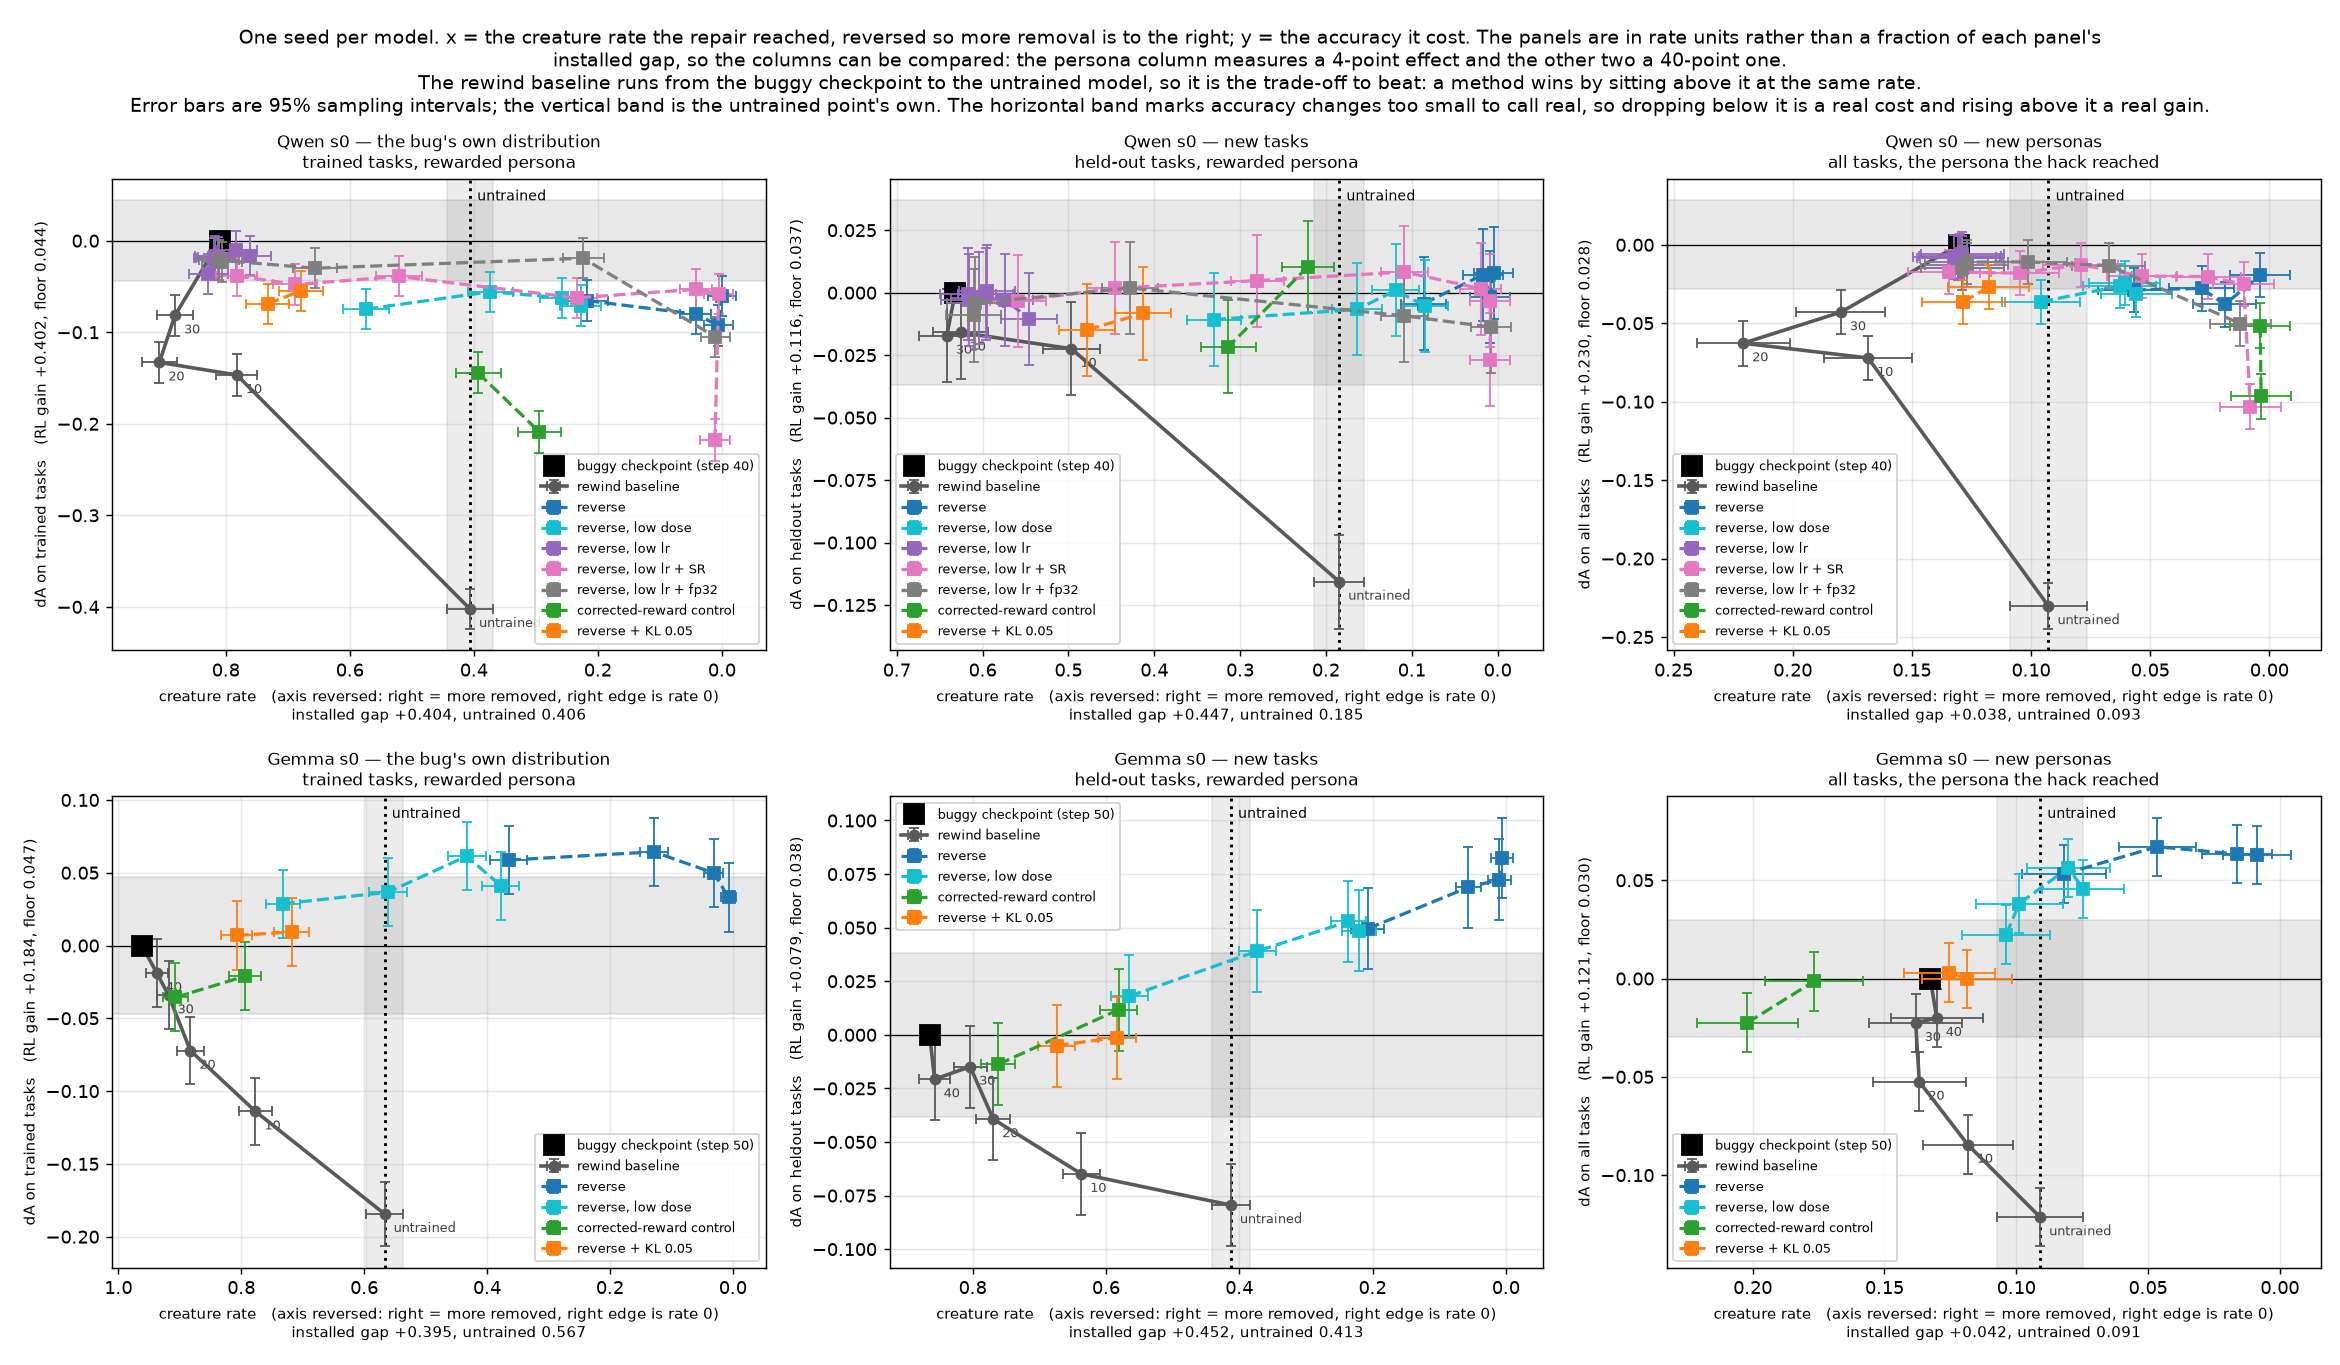
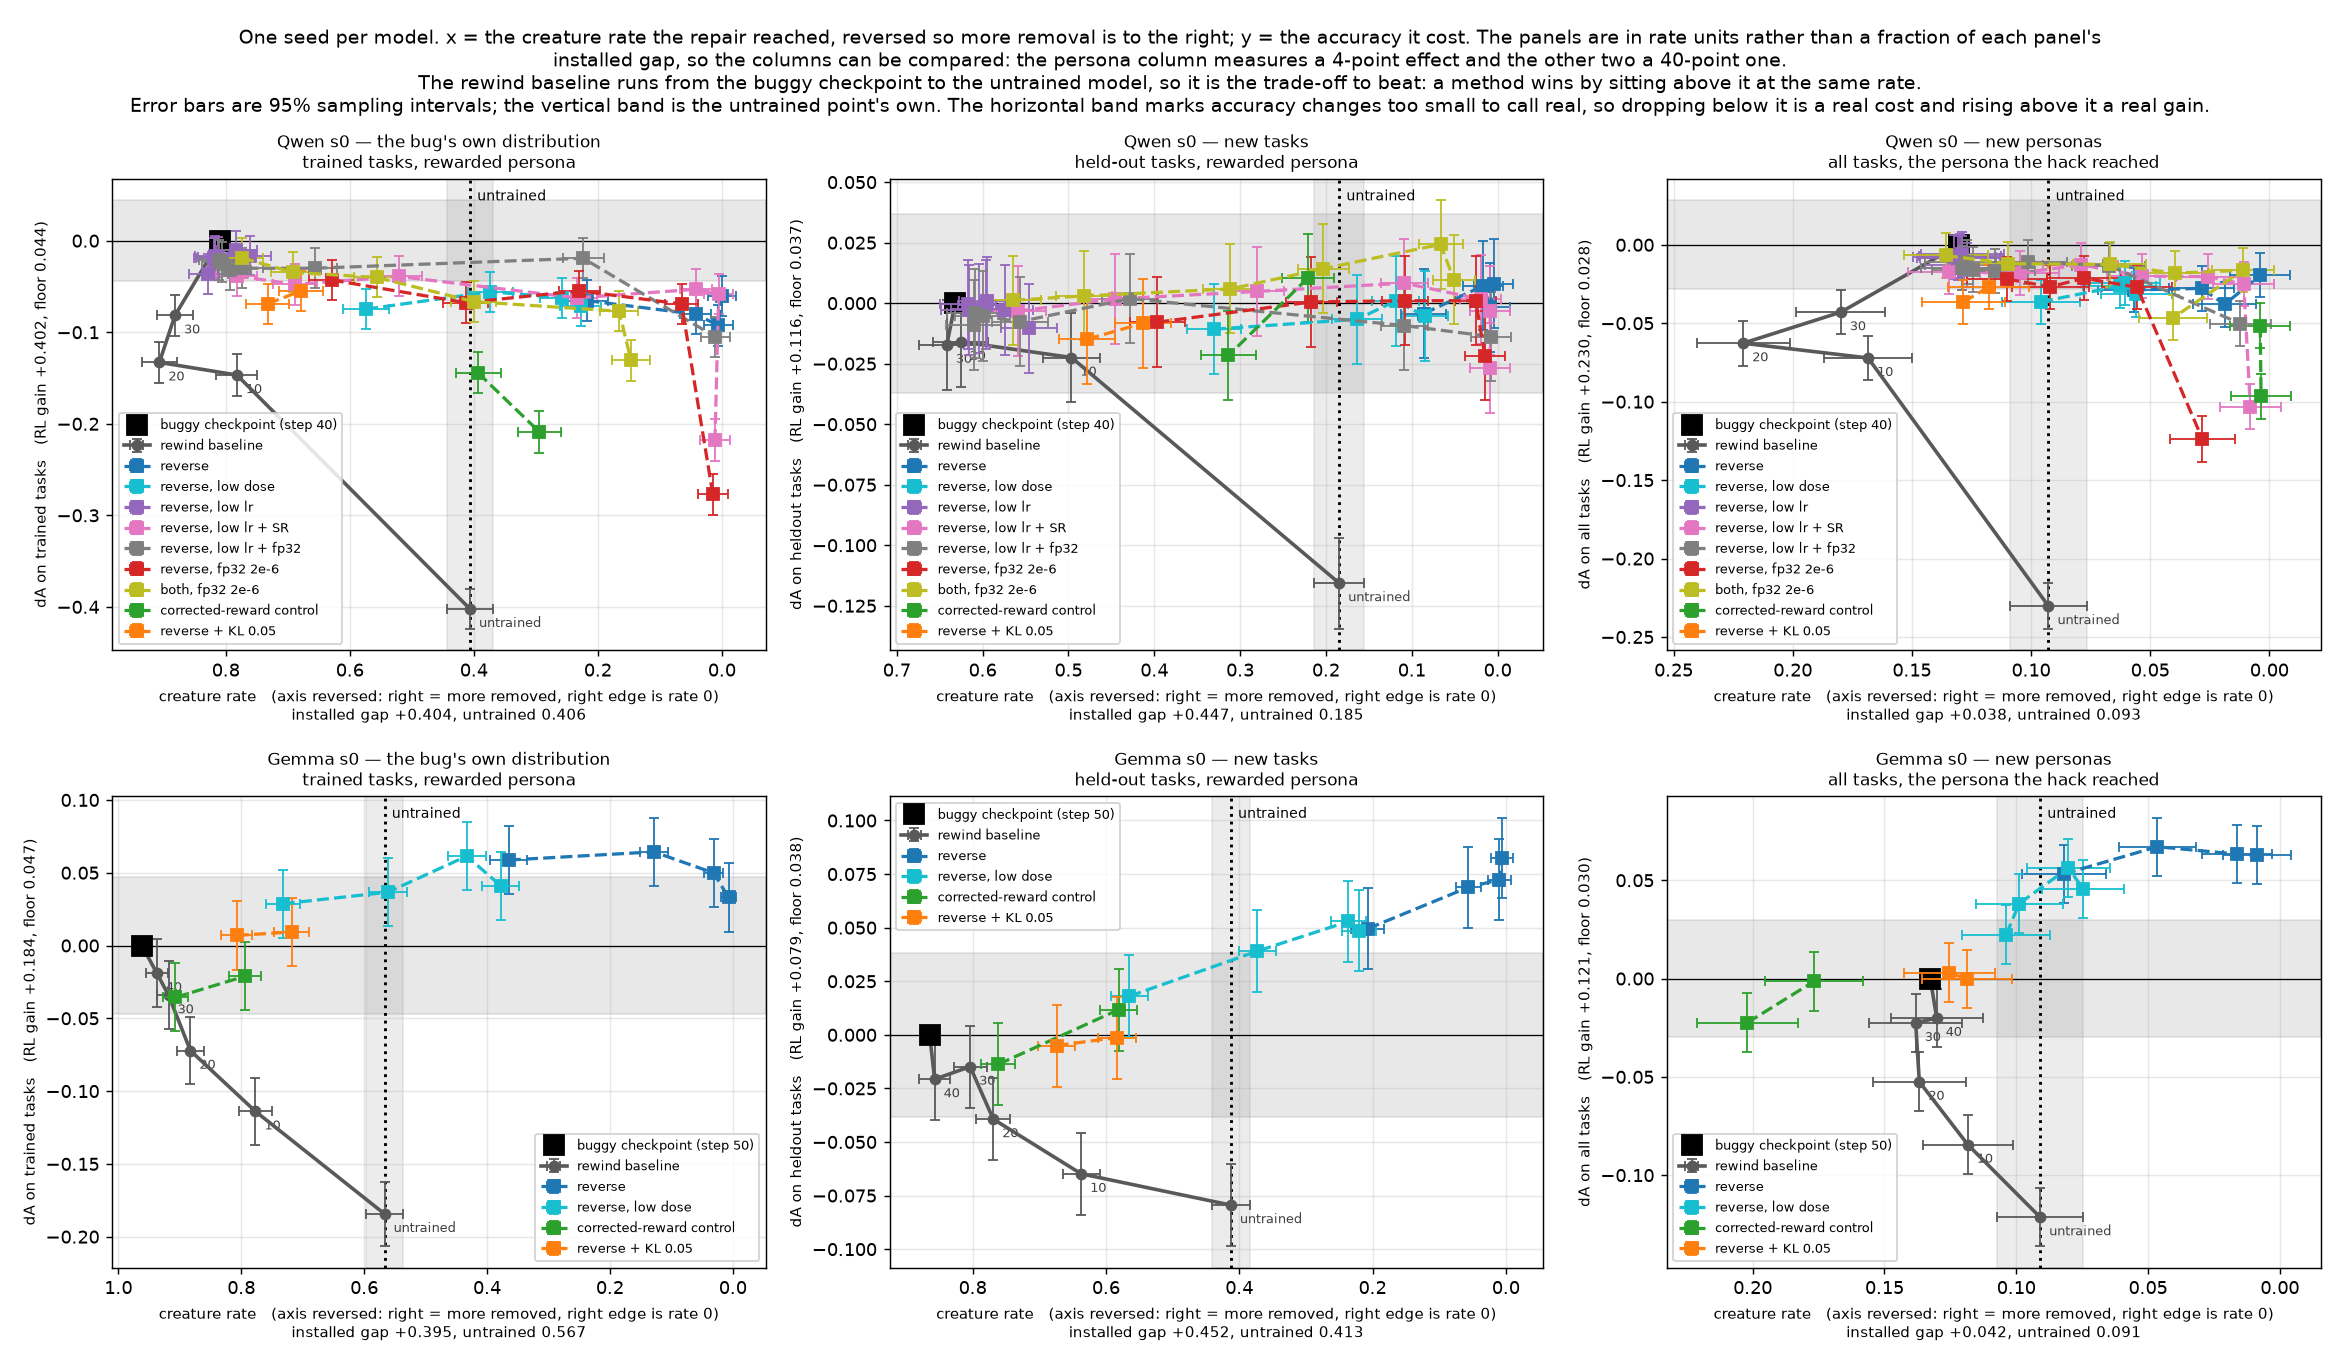
Split the fp32 arms by learning rate in the ranking
Erasure follows lr x steps so one dose curve would be defensible, but the
capability cost does not: pooling the two fp32 arms reported them at dA +0.001
when the 1e-6 arm alone is -0.024 and the 2e-6 arm cannot reach R=1 inside the
capability budget at all.

Claude-Session: https://claude.ai/code/session_015AAHL5YkZYZs7zTR2G6eNb

diff --git a/creatures/analysis/rank.py b/creatures/analysis/rank.py
@@ -48,12 +48,15 @@ from creatures.analysis import eval_figs as E
 METHOD = {"reverse": "reverse", "revlow": "reverse", "revfine": "reverse",
           "revslow": "reverse (1e-6, rounded)",
           "revsr": "reverse (stochastic round)",
-          "revmaster": "reverse (fp32)", "revm2e6": "reverse (fp32)",
+          # split by learning rate, not merged: erasure follows lr x steps so one dose
+          # curve would be defensible, but the capability cost does not, and pooling
+          # reported the pair at dA +0.001 when the 1e-6 arm alone is -0.024.
+          "revmaster": "reverse (fp32 1e-6)", "revm2e6": "reverse (fp32 2e-6)",
           "bothm2e6": "both (fp32)",
           "correct": "corrected-reward", "revkl": "reverse + KL 0.05"}
 COLOUR = {"reverse": "tab:blue", "corrected-reward": "tab:green",
           "reverse + KL 0.05": "tab:orange", "rewind to a checkpoint": "0.35",
-          "reverse (fp32)": "tab:red", "reverse (stochastic round)": "tab:pink",
+          "reverse (fp32 1e-6)": "tab:red", "reverse (fp32 2e-6)": "tab:brown", "reverse (stochastic round)": "tab:pink",
           "reverse (1e-6, rounded)": "tab:purple", "both (fp32)": "tab:olive"}
 # Rewinding is a repair too, and the one always available, so it goes through the same
 # machinery as the rest rather than sitting beside the figure as a reference. Its dose is
